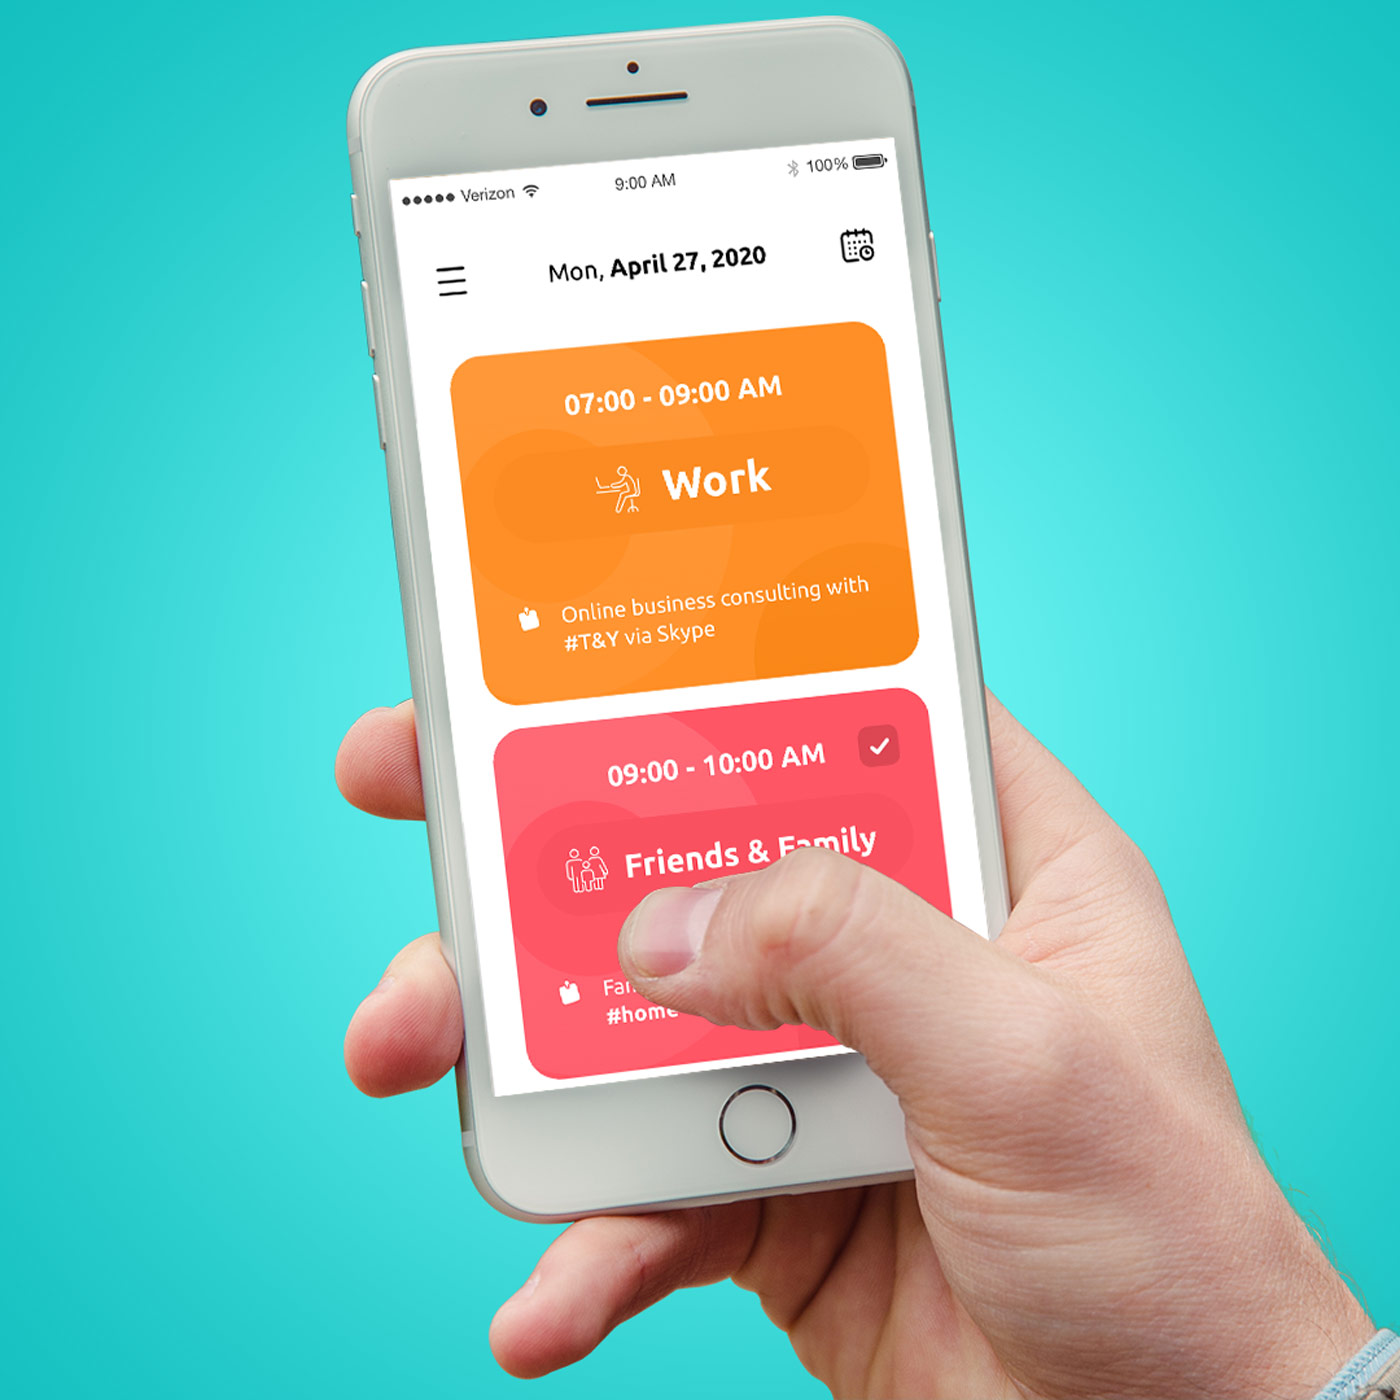
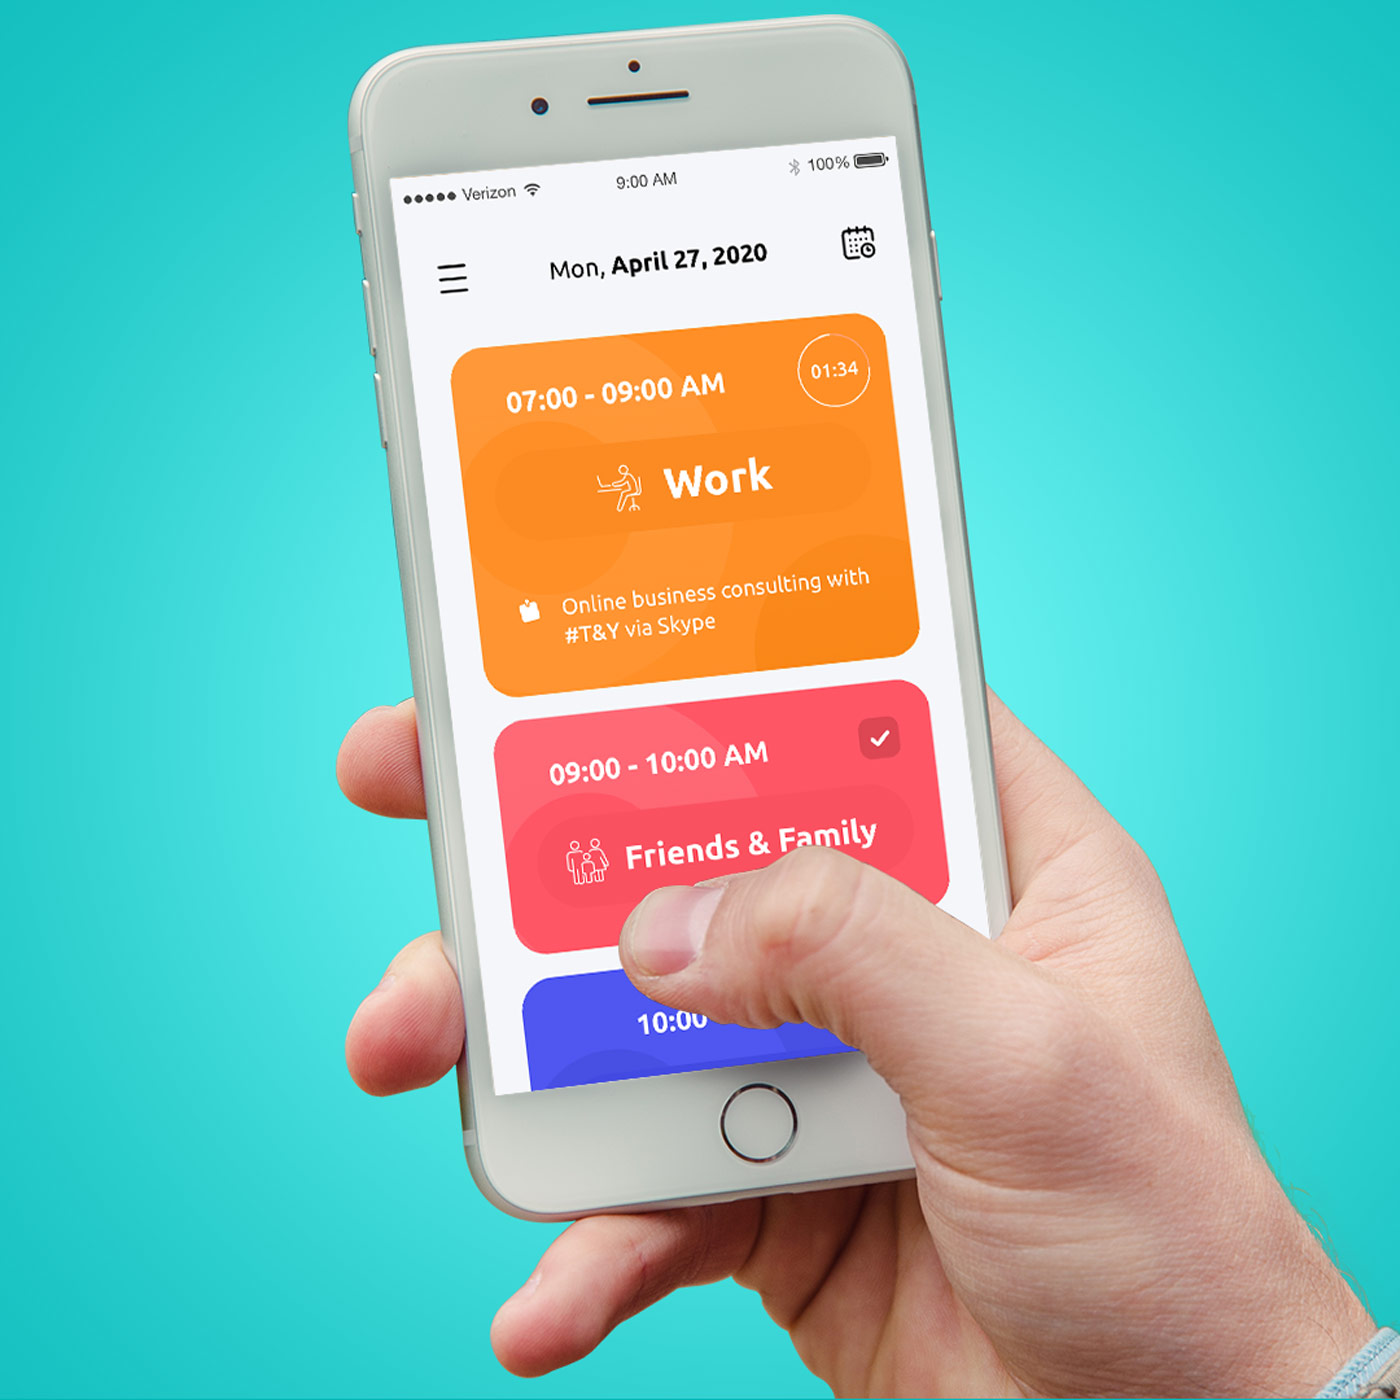
jiyu update v5

diff --git a/public/engine/pages_work/jiyu.md b/public/engine/pages_work/jiyu.md
@@ -19,11 +19,33 @@
 
 ![JiYu](../assets/images/works/details/251-jiyu/jiyu.jpg)
 
-<p class="caption">JiYu</p>
+<p class="caption">JiYu MockUp</p>
 
-Flow: [JiYu App Flow](https://whimsical.com/E2vnrJcPFfnp4WxxSXfWDj)
+![JiYu](../assets/images/works/details/251-jiyu/1.png)
 
-Prototype: [JiYu App Prototype](https://marvelapp.com/e64dbc1/screen/68671026)
+<p class="caption">Daily Screen - Brainstorming</p>
+
+![JiYu](../assets/images/works/details/251-jiyu/2.png)
+
+<p class="caption">Weekly Screen - Alternative vertical scroll only</p>
+
+![JiYu](../assets/images/works/details/251-jiyu/3.png)
+
+<p class="caption">Block Details - Brainstorming</p>
+
+![JiYu](../assets/images/works/details/251-jiyu/4.png)
+
+<p class="caption">Block Details - Alternative</p>
+
+![JiYu](../assets/images/works/details/251-jiyu/5.png)
+
+<p class="caption">AutoLogin System</p>
+
+<p class="caption">. . .</p>
+
+> Flow: [https://whimsical.com/E2vnrJcPFfnp4WxxSXfWDj](https://whimsical.com/E2vnrJcPFfnp4WxxSXfWDj)
+
+> Prototype: [https://marvelapp.com/e64dbc1/](https://marvelapp.com/e64dbc1/)
 
 <p class="caption">. . .</p>
 
